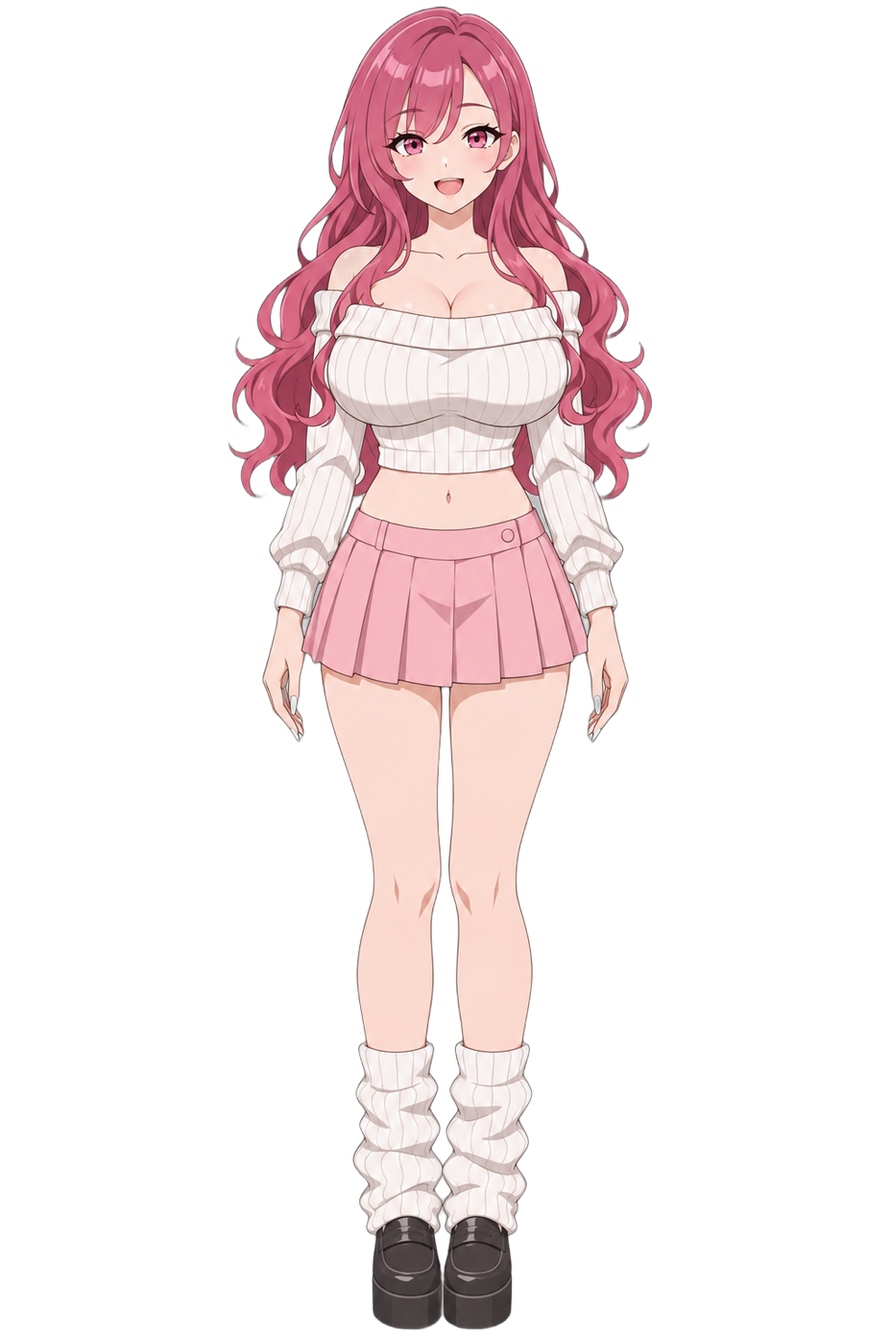
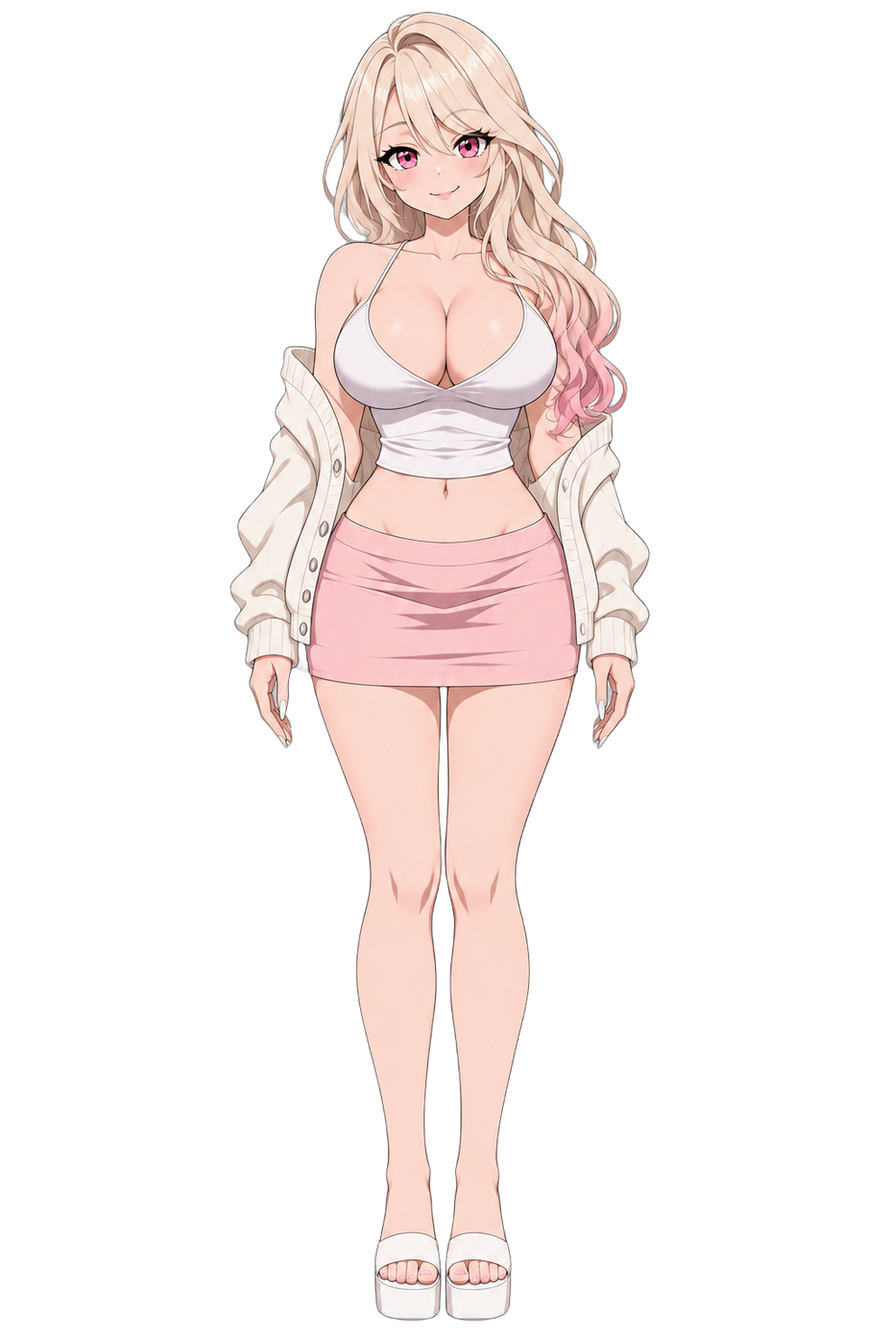
キララを作り直し（男慣れした小悪魔の白ギャル、シャンパンゴールドに毛先ピンク）：段階1の立ち絵とヒロイン設定を差し替え
Claude-Session: https://claude.ai/code/session_018G6Rk6V1BWibDdgsCVBCLi

diff --git a/docs/ヒロイン設定.md b/docs/ヒロイン設定.md
@@ -75,7 +75,7 @@ glasses, eyewear, realistic, photorealistic, 3d, painterly, thick painting, deta
 ・顔のタイプ・目の形・髪型・髪色・目の色・服装はヒロインごとに固定し、全15段階で同じタグを使う（体型タグだけ差し替える）
 ・顔の輪郭（細い・丸い）は体型で変わるので、外見タグには入れない
 ・髪色は黒・茶・金を基本に多めにし、キャラ分けのため青・赤・緑・銀などアニメ調の色も使う
-　（使用済み：ひなた＝明るい茶、沙耶＝黒、玲奈＝金、雪乃＝プラチナシルバー、小百合＝チョコレートブラウン、ことり＝赤〜ピンク、莉緒＝ブルーブラック、怜＝ネイビー、栞＝オレンジブラウン、葵＝黒に近い濃い色（ツーサイドアップ）、真理子＝ワインレッド、すみれ＝紫、澪・渚＝黒（双子）、千早＝黒（腰まであるロング）、凛＝赤みのある黒、香蓮＝アッシュブロンド、姫華＝ハニーブロンド、春香・杏＝ローズブラウン（母娘）。菜々＝アプリコット、冴子＝黒（夜会巻き）。綾乃＝ミルキーブロンド（縦ロール）、しずく＝黒（ぱっつんボブ）、夏目三姉妹＝栗色（蘭はピンクベージュに染める）、もも＝レモンイエロー、律＝黒（センター分けのショート）。御堂家＝黒（静香はアッシュブラウン、文乃は金、理沙はピンクにギャル化で染める）、ルミ＝ホワイトゴールド、キララ＝濃いピンク、ジュリ＝金に水色のメッシュ。外のヒロイン：紗月＝黒に白い毛先、真央＝濃い茶、小町＝オレンジ、まどか＝キャラメル、夏帆＝明るい茶、こはる＝若草色の緑、京子＝黒、美鈴＝ダークグレー、夕子＝ティール。つばさ＝黒に近いダークブラウン（高いポニーテール））
+　（使用済み：ひなた＝明るい茶、沙耶＝黒、玲奈＝金、雪乃＝プラチナシルバー、小百合＝チョコレートブラウン、ことり＝赤〜ピンク、莉緒＝ブルーブラック、怜＝ネイビー、栞＝オレンジブラウン、葵＝黒に近い濃い色（ツーサイドアップ）、真理子＝ワインレッド、すみれ＝紫、澪・渚＝黒（双子）、千早＝黒（腰まであるロング）、凛＝赤みのある黒、香蓮＝アッシュブロンド、姫華＝ハニーブロンド、春香・杏＝ローズブラウン（母娘）。菜々＝アプリコット、冴子＝黒（夜会巻き）。綾乃＝ミルキーブロンド（縦ロール）、しずく＝黒（ぱっつんボブ）、夏目三姉妹＝栗色（蘭はピンクベージュに染める）、もも＝レモンイエロー、律＝黒（センター分けのショート）。御堂家＝黒（静香はアッシュブラウン、文乃は金、理沙はピンクにギャル化で染める）、ルミ＝ホワイトゴールド、キララ＝シャンパンゴールドに毛先だけ淡いピンク、ジュリ＝金に水色のメッシュ。外のヒロイン：紗月＝黒に白い毛先、真央＝濃い茶、小町＝オレンジ、まどか＝キャラメル、夏帆＝明るい茶、こはる＝若草色の緑、京子＝黒、美鈴＝ダークグレー、夕子＝ティール。つばさ＝黒に近いダークブラウン（高いポニーテール））
 ・服装は伸びても破れにくく、太っても形が分かるものを選ぶ
 ・服装と髪型は体型に合わせて3〜4回の節目で変える（太って服を買い替える流れを見せる）。どの段階でもお腹の丸みが分かる服にする
 ・各キャラに、遠目でも分かるピンポイントのアクセサリーを2〜3個付ける（太っても同一人物と分かる目印。設定上の由来も決める）
@@ -4948,85 +4948,83 @@ BMI　　　　 ：19.5（段階1 スレンダー）
 体型タイプ　：ストレート × 洋梨型（straight / pear）…設定から決定（〈体型タイプの根拠〉）
 好き　　　　：甘いもの（パフェ、映えるスイーツ）、パン
 苦手　　　　：勉強（「意味わかんない」）
+嗜好　　　　：細いメンソールの煙草（ベランダで吸う。立ち絵には描かない。2026-11-08 追加）
 在室　　　　：平日 昼・夜／休日 夜
 
-〈外見〉
-顔のタイプ：華やかで面倒見のいい、白ギャル。大きなたれ目
-目　　　　：大きな垂れ目、ぱっちり二重、つけまつげ、明るいピンクの瞳（カラコン）
-髪　　　　：濃いピンクのロングを、ゆるく巻いて下ろしている
-アクセサリー（目印）：
-　・頭の上の大きな白いリボン
-　・首元のハートのチョーカー
-　・左手首の、妹とおそろいのパールのブレスレット
-その他　　：色白
-服装　　　：白いオフショルダーのへそ出しのニット＋ピンクのミニスカート＋白いルーズソックス＋厚底ローファー
-表情　　　：基本は、にこにこした人懐っこい笑顔
+〈外見〉（2026-11-08 ユーザー指示で作り直し。男慣れした小悪魔の白ギャル。段階1の画像 `img/kirara_1.png` が正）
+顔のタイプ：甘い色気のある、男慣れした小悪魔の白ギャル。大きなたれ目
+目　　　　：大きな垂れ目、二重、つけまつげ、涙袋を強調したメイク、明るいピンクの瞳（カラコン）
+髪　　　　：シャンパンゴールド（ベージュがかった明るい金髪）で、毛先だけ淡いピンクのロング。ゆるく巻いて、本人の左肩の前に流す。前髪は片目に少しかかる長さで横に流す（母のホワイトゴールド、妹の金に水色のメッシュと並ぶ金髪の家族。毛先のピンクと妹の水色で、姉妹が対になる）
+アクセサリー：付けない（目印の小物をやめる決まり、2026-11-06）
+その他　　：色白。甘い香水とメンソールの煙草の匂い
+服装　　　：胸元が深く開いた白いホルターネックのキャミソール型のへそ出しトップス＋白いカーディガン（両肩からずり落として羽織る）＋淡いピンクのタイトなミニスカート＋白い厚底サンダル
+表情　　　：基本は、閉じた唇の端を上げた、誘うような甘い微笑み
 
-〈5つの流れ〉（2026-11-07。性格と気持ちの流れが、表情・服装・髪型を決める。小物は付けない）
+〈5つの流れ〉（2026-11-08 作り直し。性格と気持ちの流れが、表情・服装・髪型を決める。小物は付けない）
 ▼性格の流れ
-- 1〜4：明るく人懐っこい、面倒見のいい白ギャル。母のルミが大好きで、友達のような関係。勉強は苦手で大学にはほとんど行っていない。本当は、勉強ができないことに少しコンプレックスがある
-- 5〜8：面倒見のよさで、太って服が入らなくなった文乃に自分の服を貸してギャル化させる。自分も太っていくが「ギャルは太ってもかわいいの」と余裕
-- 9〜12：アパレルのバイトの服に入らず一瞬あせるが、すぐ開き直る。文乃に勉強に誘われ、コンプレックスに初めて向き合う
-- 13〜15：文乃に教わって資格試験に合格。「あたしでも、できるじゃん」と自信がつき、堂々と色っぽくなる。明るさ・人懐っこさ・母への愛情は変わらない
+- 1〜4：男慣れした小悪魔の白ギャル。甘えた声と近い距離で、男に自然とおごらせる。ベランダで細いメンソールの煙草を吸う。面倒見はいい。母のルミが大好きで、友達のような関係。勉強は苦手で、大学にはほとんど行っていない。本当は、勉強ができないことにコンプレックスがあり、男に軽く見られるのにも慣れてしまっている
+- 5〜8：太って服が入らなくなった文乃に自分の服を貸してギャル化させ、「男はね、こういうのに弱いの」と教える。自分も太っていくが「太っても男は寄ってくるし」と余裕
+- 9〜12：アパレルのバイトの服に入らず一瞬あせるが、すぐ開き直り、太った体を見せつけて誘う。文乃に勉強に誘われ、コンプレックスに初めて向き合う
+- 13〜15：文乃に教わって資格試験に合格。「あたしでも、できるじゃん」と自信がつき、いちばん色っぽくなる。小悪魔ぶり・面倒見・母への愛情は変わらない
 ▼気持ちの流れ（開き直り型）
-- 2〜4：「最近、ミニスカきつ〜」と笑って、気にしない
-- 5〜8：気にしない余裕。ミニスカートからおしりがはみ出しても「ギャルは太ってもかわいいの」
+- 2〜4：「最近、スカートきつ〜」と笑って、気にしない。ずり上がる裾も直さない
+- 5〜8：「太っても男は寄ってくるし」と余裕。タイトスカートからおしりがはみ出しても直さない
 - 9：バイトの服に腰とおしりが入らず、一瞬あせる
-- 10〜11：すぐに「文句ある？」と強気に開き直り、からかうように笑う
+- 10〜11：すぐに「文句ある？」と開き直り、太った体を見せつけるように誘う
 - 12：勉強が少し分かってきて、体も自分も得意げに見せる
-- 13〜15：今の体に自信。「あたしでも、できるじゃん」と、甘く色っぽく笑う
-▼表情の流れ（表情の癖：唇をとがらせたアヒル口、垂れ目の目尻をさらに下げて笑う）
+- 13〜15：「この体がいいって男、けっこういるんだよ」。資格に合格した自信も重なり、甘く色っぽく誘う
+▼表情の流れ（表情の癖：まぶたを少し落とした流し目、閉じた唇の端だけを上げる）
 | 段階 | 表情 |
 |---|---|
-| 1〜4 | 大きな垂れ目の目尻をさらに下げた、にこにこした人懐っこい笑顔。頬にチークのような淡い赤み |
-| 5〜8 | 気にしない余裕。目尻をとろんと下げ、唇を軽くとがらせたアヒル口で笑う。「ギャルは太ってもかわいいの」と言いたげで、頬の赤みはチーク程度 |
-| 9 | 一瞬ぎくっとする。垂れ目をまん丸に見開いて両眉をはね上げ、とがらせた唇のまま固まる。頬にさっと赤み |
-| 10 | 「文句ある？」と強気。眉をきゅっと上げてピンクの瞳でまっすぐこちらを見すえ、唇を強くとがらせたアヒル口。頬は赤い |
-| 11 | 挑発するようににやり。垂れ目を細めた流し目でこちらを見て、口の片端だけを上げたからかうような笑み |
-| 12 | 得意げ。眉を高く上げ、垂れ目をきらきらさせて口を大きく開けた満面の笑み。「あたしでも、できるじゃん」と言いたげで、頬は上気して明るい赤 |
-| 13〜15 | 自信たっぷりで色っぽい。目尻を下げた垂れ目をとろんと細め、つやのある唇を軽くとがらせた甘いアヒル口。頬はほんのり赤く、余裕の微笑み |
+| 1〜4 | まぶたを少し落とした甘い流し目で、閉じた唇の端を上げた、誘うような微笑み。頬に淡い赤み |
+| 5〜8 | 余裕。まぶたを半分落とした気だるい流し目で、つやのある唇の片端だけを上げた、からかうような笑み |
+| 9 | 一瞬ぎくっとする。垂れ目をまん丸に見開いて両眉をはね上げ、唇を半開きにしたまま固まる。頬にさっと赤み |
+| 10 | 「文句ある？」と強気。眉をきゅっと上げてピンクの瞳でまっすぐこちらを見すえ、唇を軽くとがらせる。頬は赤い |
+| 11 | 挑発するように誘う。まぶたを半分落とした流し目でこちらを見て、つやのある唇を少しだけ開いた笑み |
+| 12 | 得意げ。眉を高く上げ、垂れ目をきらきらさせて口を大きく開けた満面の笑み。「あたしでも、できるじゃん」と言いたげ |
+| 13〜15 | 自信たっぷりで色っぽい。まぶたを半分落とした甘い流し目で、つやのある唇を少し開いた余裕の微笑み。頬はほんのり赤い |
 ▼服装の流れ（小物なし）
-- 1〜4：白いオフショルダーのへそ出しのニット＋ピンクのミニスカート＋白いルーズソックス＋厚底ローファー（自分をいちばんかわいく見せる、華やかな白ギャルの服。人懐っこさが出る、白とピンクのやわらかい色）
-- 5〜8：同じ服。へそ出しのニットからお腹がはみ出し、ミニスカートがおしりと太ももではちきれそう（気にしない余裕で、同じ服を着続ける。文乃に服を貸すときも「ギャルは太ってもかわいい」と自分で見せる）
-- 9〜12：大きいサイズの白いパーカーワンピース（オフショルダーにずらして着る）＋白いルーズソックス＋厚底スニーカー（ミニスカートが入らず、まず楽なワンピースに。段階9は一瞬あせるが、段階10からは肩を出してギャルらしく着こなし、持ち上がる裾も気にしない）
-- 13〜15：大きいサイズのピンクのオフショルダーのTシャツ＋白いジャージのショートパンツ＋厚底サンダル（資格に合格して自信がついた姿。体の幅の倍近いおしりと太い太ももを、隠さずショートパンツで堂々と出す。最初のころの白とピンクに戻る）
-- 全段階で、ギャルメイク（つけまつげ）と、白い長いネイル（飾りの石は付けない）
+- 1〜4：胸元が深く開いた白いホルターネックのキャミソール型のへそ出しトップス＋白いカーディガン（両肩からずり落として羽織る）＋淡いピンクのタイトなミニスカート＋白い厚底サンダル（体の線を見せて男の目を引く服。白と淡いピンク）
+- 5〜8：同じ服。へそ出しのトップスの下からお腹がはみ出し、タイトスカートがおしりと太ももで張りつめてずり上がる。カーディガンはずり落としたまま（気にしない余裕で、同じ服を着続ける）
+- 9〜12：大きいサイズの白いオフショルダーのニットのミニワンピース（体に沿う）＋同じ白いカーディガン＋白い厚底サンダル（スカートが入らず、ワンピースに。段階9は一瞬あせってカーディガンを肩まで引き上げて隠しかけ、段階10からは肩からずり落として、体の線を見せつける）
+- 13〜15：大きいサイズの淡いピンクのキャミソールのミニワンピース（胸元が深く開く）＋白いカーディガン（両肩からずり落とす）＋白い厚底サンダル（資格に合格した自信。太った体をいちばん色っぽく見せる）
+- 全段階で、ギャルメイク（つけまつげ、涙袋）と、白い長いネイル（飾りの石は付けない）
 ▼髪型の流れ
-- 1〜4：濃いピンクのロングを、ゆるく巻いて下ろす（華やかな白ギャルらしい、大きな巻き髪）
-- 5〜8：濃いピンクの巻き髪を、高い位置でツインテールに結ぶ。髪と同じピンクの細いゴム（余裕で、若々しく遊ぶ。文乃を「かわいい」とギャルにしていくノリのよさ）
-- 9〜12：巻き髪を下ろし、母のルミのまねで大きく巻いてボリュームを盛る（段階9は一瞬あせって顔まわりを隠しかけ、段階10からは「盛れば勝ち」と開き直る）
-- 13〜15：濃いピンクの巻き髪を、高い位置のお団子にまとめる。髪と同じピンクの細いゴム（勉強のじゃまにならないようにまとめた髪が、合格した自信のしるしになった。首も顔も出して堂々と）
+- 1〜4：シャンパンゴールドで毛先だけ淡いピンクのロングを、ゆるく巻いて本人の左肩の前に流す。前髪は片目に少しかかる
+- 5〜8：同じ髪（気にしないので、髪も変えない）
+- 9〜12：巻き髪を両肩に下ろし、母のルミのまねで大きく巻いてボリュームを盛る（段階9は一瞬あせって顔まわりを隠しかけ、段階10からは「盛れば勝ち」と開き直る）
+- 13〜15：巻き髪を高い位置のゆるいお団子にまとめ、後れ毛を残す。髪と同じ色の細いゴム（勉強のじゃまにならないようにまとめた髪が、合格した自信のしるしになった。うなじも見せて色っぽく）
 
 〈性格〉
-明るく人懐っこい、面倒見のいいギャル。母のルミのことが大好きで、友達のような関係。勉強は苦手で、大学にはほとんど行っていない。隣のまじめな文乃が気になって、ベランダごしに話しかける。本当は、勉強ができないことに少しコンプレックスがある。
+男慣れした小悪魔のギャル。甘えた声と近い距離で、男に自然とおごらせる。ベランダで細いメンソールの煙草を吸う。面倒見はよく、母のルミのことが大好きで、友達のような関係。勉強は苦手で、大学にはほとんど行っていない。隣のまじめな文乃が気になって、ベランダごしに煙草を片手に話しかける。本当は、勉強ができないことにコンプレックスがあり、男に軽く見られるのにも慣れてしまっている。
 
 〈趣味・好み〉
-映えるスイーツの食べ歩き、プリクラ、メイク。
+映えるスイーツの食べ歩き、メイク、男におごらせての夜遊び。
 
 〈好みの男性〉
-「やさしい人」。本当は、自分のことをバカにしない人。
+「おごってくれる人」と言う。本当は、自分のことをバカにしない人。
 
 〈主人公との関係〉
-主人公を「オーナーくん」と呼び、最初からなれなれしい。
+主人公を「オーナーくん」と呼び、最初からなれなれしく距離が近い。腕を組んできたり、煙草の火を借りに来たりして、からかう。
 呼び方は「オーナーくん」→（好意70〜）「〇〇くん」と変わっていく。
 
 〈攻略の流れ（イメージ）〉
-最初から人懐っこい。スイーツの差し入れで親密度が上がる。勉強会に主人公も参加すると、大きく上がる。
+最初から距離が近いが、本気ではない。スイーツの差し入れで親密度が上がる。勉強会に主人公も参加すると、大きく上がる（自分をバカにしない男だと気づく）。
 キララだけの攻略イベント：資格試験に合格した日。主人公とパフェを食べながら。「…あたし、勉強できないってずっと思ってた。でも、〇〇くんと文乃ちゃんが、できるって言ってくれたから。…ねえ、ごほうび、ちょうだい」
 
 〈太った後の性格・生活の変化〉
-※ 親密度が「親しい」以上で太った場合。低いまま太った場合は「ギャル仲間に笑われる」という不安として出る
-変わらないもの：明るさ、人懐っこさ、母への愛情
-・段階2〜4：「最近、ミニスカきつ〜」と気にしない
-・段階5〜8（余裕・開き直り型）：太った文乃に自分の服を貸してギャル化させる。「ギャルは太ってもかわいいの」と、ミニスカートから大きくはみ出すおしりもそのままに、自分もへそ出しを続ける
-・段階9〜12（開き直り・開き直り型）：腰とおしりがアパレルのバイトの服に入らず、休憩室の椅子からも左右にはみ出して、一瞬あせる。でもすぐ「入る服を探せばいいじゃん」と開き直る。文乃に「キララさん、いっしょに勉強しませんか」と誘われる
-・段階13〜15（自信・開き直り型）：今の体に自信を持つ。ドアを横向きでないと通れない巨体になっても、文乃に勉強を教わって、アパレルの資格試験に合格する。「あたしでも、できるじゃん」
-・口調：明るいギャル口調（「〜じゃん」「かわい〜」）は全段階で同じ
+※ 親密度が「親しい」以上で太った場合。低いまま太った場合は「男に相手にされなくなる」という不安として出る
+変わらないもの：小悪魔ぶり、面倒見、母への愛情
+・段階2〜4：「最近、スカートきつ〜」と気にしない。ずり上がる裾も直さない
+・段階5〜8（余裕・開き直り型）：太った文乃に自分の服を貸してギャル化させ、「男はね、こういうのに弱いの」と教える。「太っても男は寄ってくるし」と、タイトスカートから大きくはみ出すおしりもそのままに、自分もへそ出しを続ける
+・段階9〜12（開き直り・開き直り型）：腰とおしりがアパレルのバイトの服に入らず、休憩室の椅子からも左右にはみ出して、一瞬あせる。でもすぐ「入る服を探せばいいじゃん」と開き直り、太った体を見せつけて誘う。文乃に「キララさん、いっしょに勉強しませんか」と誘われる
+・段階13〜15（自信・開き直り型）：今の体に自信を持つ。ドアを横向きでないと通れない巨体になっても、文乃に勉強を教わって、アパレルの資格試験に合格する。「この体がいいって男、けっこういるんだよ」「あたしでも、できるじゃん」
+・口調：甘ったるいギャル口調（「〜じゃん」「ねえ、おごって？」）は全段階で同じ
 
 〈体型タイプの根拠〉
 ・骨格＝ストレート：Hカップの胸に上半身の厚みがある、グラマーな体。母と同じ骨格
-・脂肪型＝洋梨型：太る原因は、映えるスイーツとパン（甘いもの・炭水化物）の食べ歩き。アパレルの立ち仕事
-※ ストレート×洋梨は小百合・すみれ・春香・まどか・冴子と同じ。キララは「濃いピンクの巻き髪と大きな白いリボン、白ギャルの服」で見た目を分ける
+・脂肪型＝洋梨型：太る原因は、映えるスイーツとパン（甘いもの・炭水化物）の食べ歩きと、男におごらせる夜遊び。アパレルの立ち仕事
+※ ストレート×洋梨は小百合・すみれ・春香・まどか・冴子と同じ。キララは「シャンパンゴールドに毛先ピンクの巻き髪、白×淡いピンクの体の線が出る服、誘うような流し目」で見た目を分ける
 
 〈体型段階ごとの目安〉（係数 B+0.85／W+0.9／H+1.0 cm/kg、段階11以降W+0.2）
    1. スレンダー　〜53.8kg　目安50kg　B94(H)・W58・H88
@@ -6576,6 +6574,7 @@ BMI　　　　 ：19.9（段階1 スレンダー）
 足元に影はなく、光やぼかしなどの効果も入れない。
 
 【キララ 段階1】（ギャルママ一家の長女・白ギャル）
+※ 2026-11-08 作り直し済み（男慣れした小悪魔の白ギャル、シャンパンゴールドに毛先ピンク）。下の文は旧版。最新の見た目は `claude/キララ_キャラデザ.md`
 ギャルゲーの立ち絵風のアニメイラスト。線がはっきりしたベタ塗りのアニメ塗りで、影は1段だけ。厚塗りやリアルな質感、グラデーションの影は使わない。真っ白な無地の背景に、成人女性が1人、正面を向いて全身で、腕を下ろしてまっすぐ立っている。
 21歳の女子大学生で、明るいギャル。身長160cmで、ウエストは細く、胸がとても大きいグラマーなスレンダー体型。お腹は平ら。大人の女性の顔立ち。
 華やかで人懐っこい美人で、大きな垂れ目、ぱっちり二重、つけまつげ、明るいピンクの瞳。にこにこした人懐っこい笑顔。色白。
